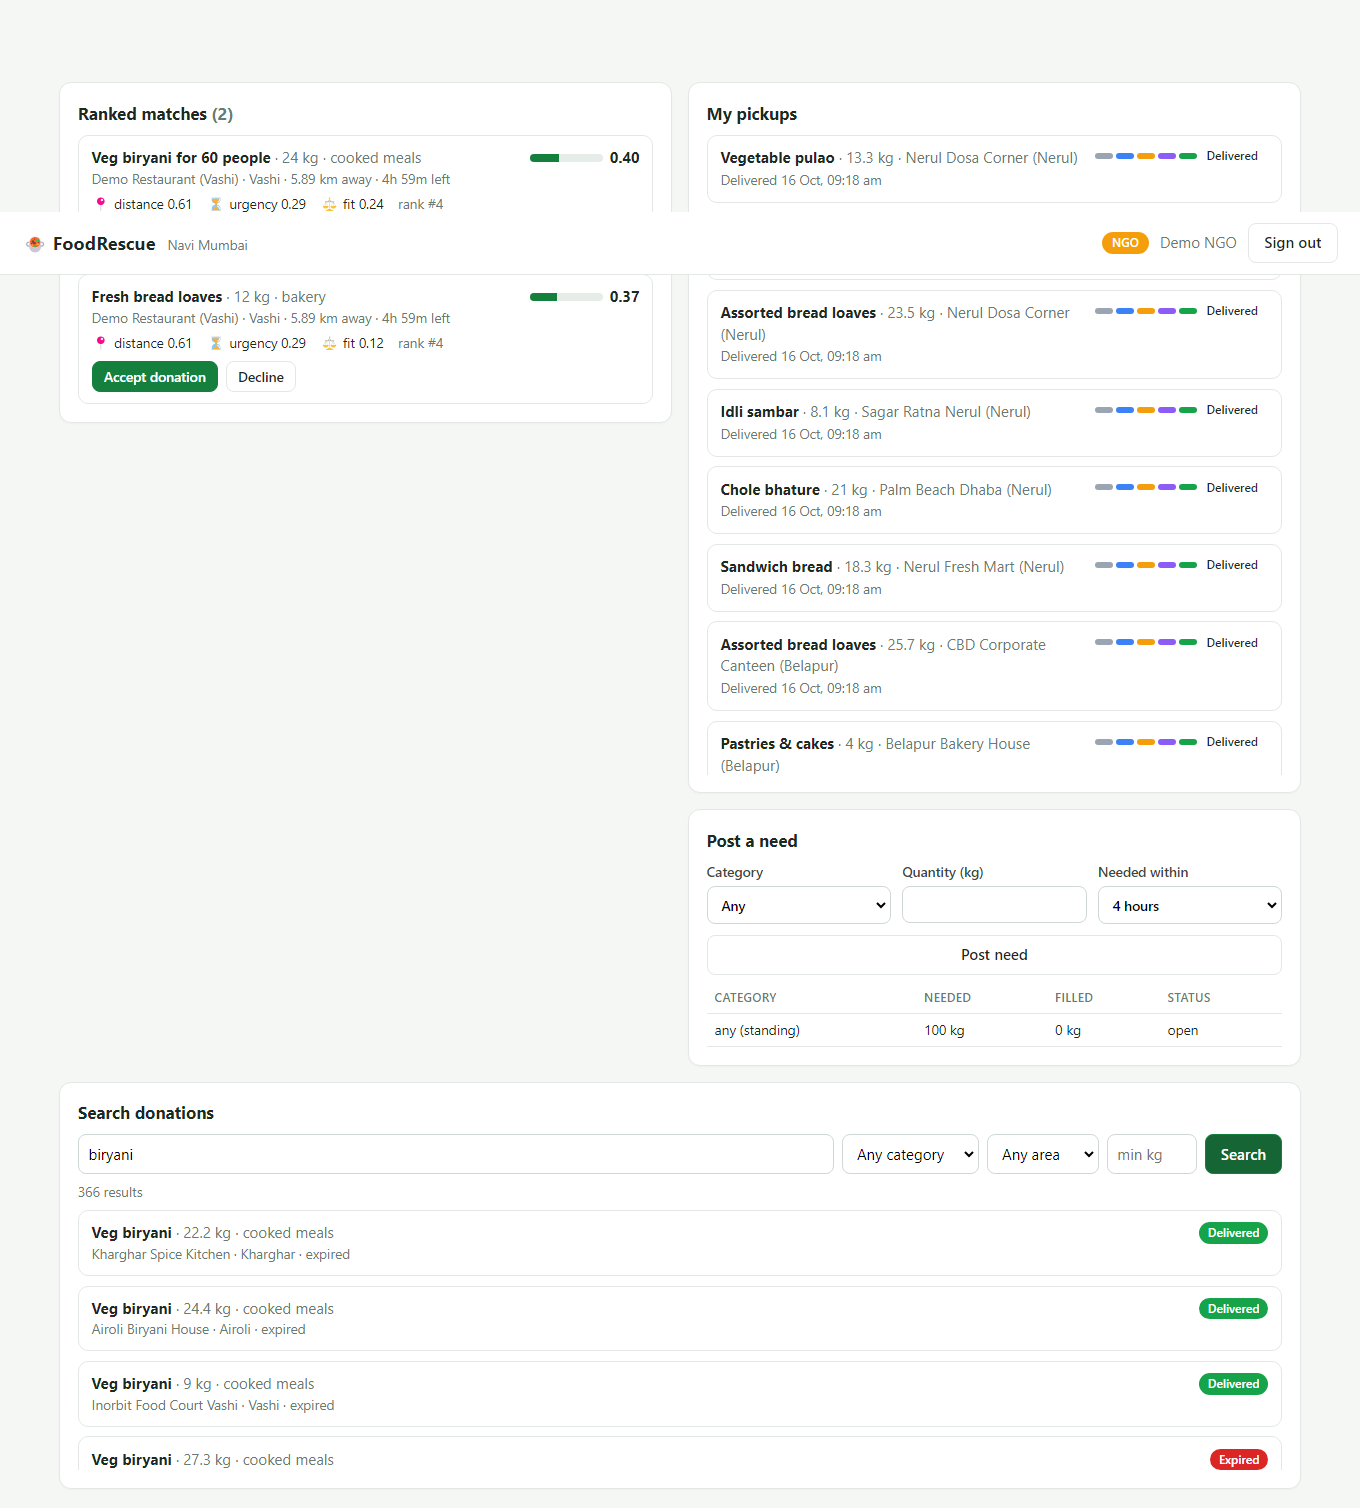
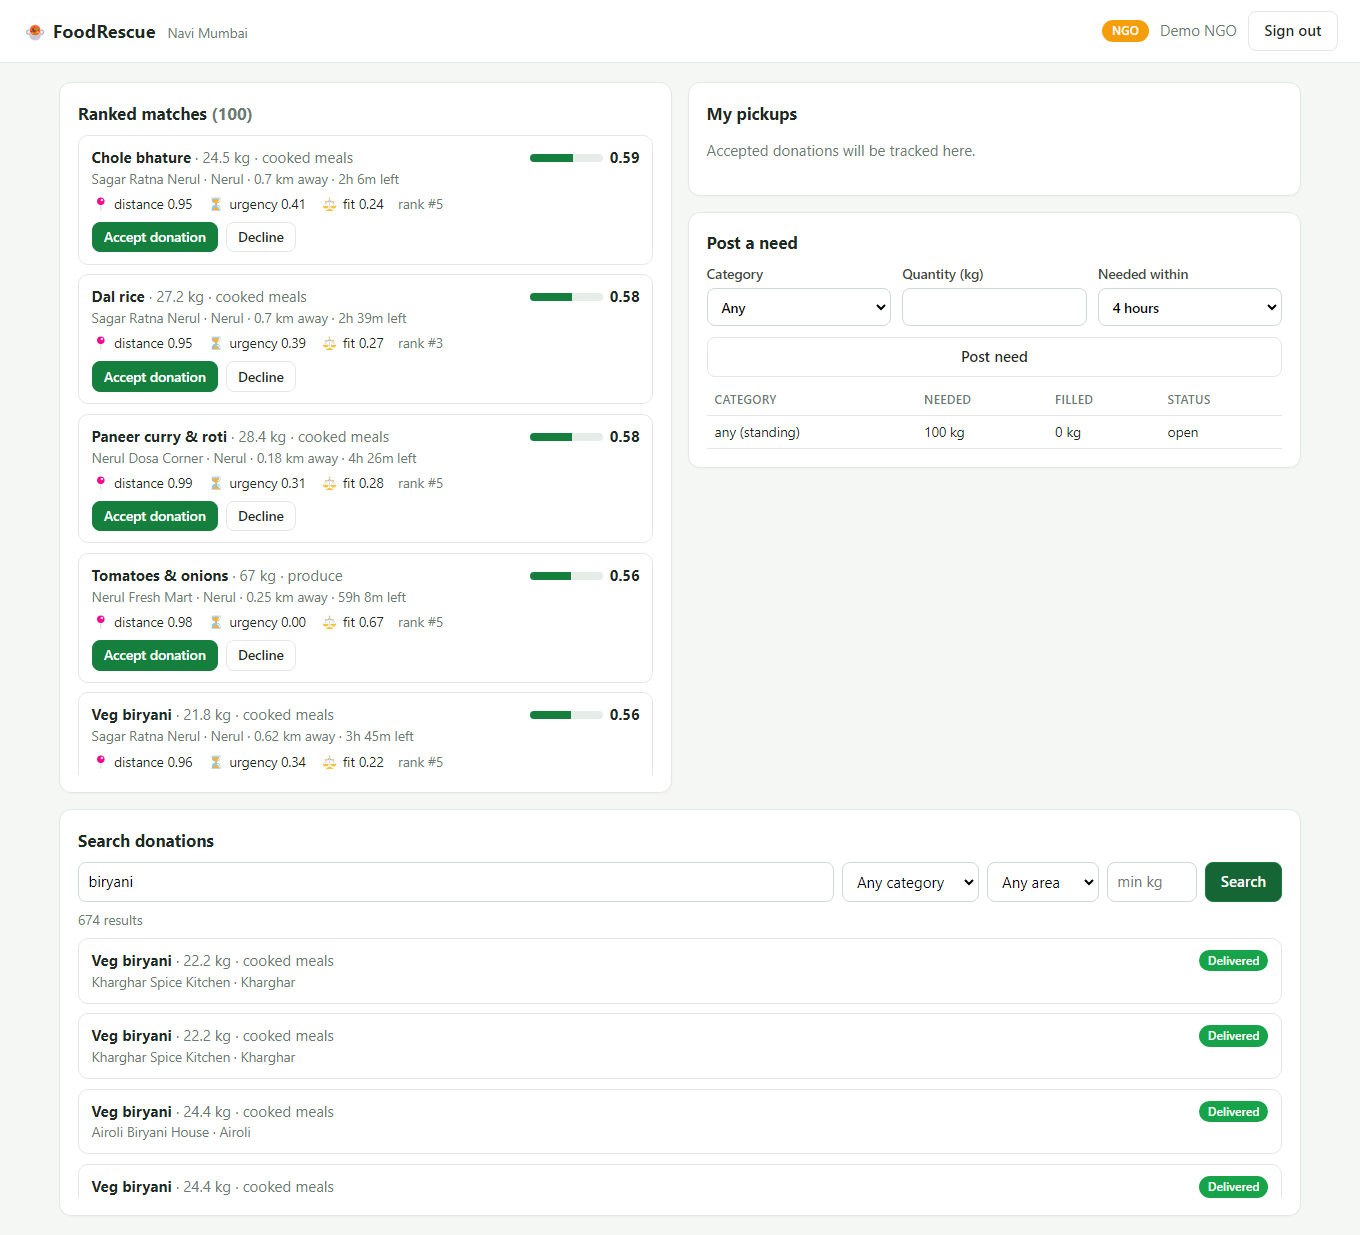
README screenshots gallery, progress details, search result polish

diff --git a/frontend/src/components/SearchBox.jsx b/frontend/src/components/SearchBox.jsx
@@ -45,7 +45,7 @@ export default function SearchBox({ title = 'Search donations' }) {
                 <div className="item-head">
                   <div>
                     <b>{h.food_type}</b> <span className="muted">· {h.quantity_kg} kg · {label(h.category)}</span>
-                    <div className="muted small">{h.donor} · {h.area} · {timeLeft(h.expiry_time)}</div>
+                    <div className="muted small">{h.donor} · {h.area}{['listed', 'matched'].includes(h.status) ? ` · ${timeLeft(h.expiry_time)}` : ''}</div>
                   </div>
                   <Badge status={h.status} />
                 </div>

diff --git a/README.md b/README.md
@@ -8,6 +8,20 @@ Donors list surplus food, the system finds the best nearby NGOs for it, and the 
 
 Screenshots are in [docs/screenshots](docs/screenshots). Deeper docs: [architecture](docs/architecture.md) · [database model](docs/er-diagram.md) · [demo script](docs/DEMO_SCRIPT.md) · [progress](PROGRESS.md).
 
+
+## Screenshots
+
+| | |
+|---|---|
+| ![Login](docs/screenshots/01-login.png) **Login** | ![Donor](docs/screenshots/02-donor.png) **Donor**: listing, status steps, ranked NGOs |
+| ![NGO](docs/screenshots/03-ngo-matches.png) **NGO**: ranked matches, accept / decline | ![Search](docs/screenshots/04-ngo-search.png) **Search** (Elasticsearch) |
+| ![Live demo](docs/screenshots/05-admin-live-demo.png) **Admin live demo** | ![Map](docs/screenshots/06-map-clusters-and-match-lines.png) **Map**: clusters, match lines, NGOs |
+| ![Analytics](docs/screenshots/07-analytics.png) **Analytics** (DuckDB, forecast) | ![Pipeline health](docs/screenshots/08b-pipeline-health-with-nifi.png) **Pipeline health** |
+| ![NiFi](docs/screenshots/13-nifi-flow.png) **Apache NiFi** flow | ![Airflow](docs/screenshots/12-airflow-dags.png) **Apache Airflow** DAGs |
+| ![RabbitMQ](docs/screenshots/10-rabbitmq-queue.png) **RabbitMQ** queue | ![Swagger](docs/screenshots/09-swagger-api-docs.png) **API docs** |
+
+Regenerate them with `node scripts/capture_screenshots.mjs` (needs `npm i -D playwright` and a running stack).
+
 ## What it does
 
 - **Donors** list surplus food (or upload a CSV) and follow its status: listed → matched → accepted → picked up → delivered.

diff --git a/PROGRESS.md b/PROGRESS.md
@@ -27,7 +27,7 @@
 * Backend test suite in Docker; frontend `npm run build` in the Docker image.
 * Core stack end to end: live demo at 5x, 20 batches, Delta history written by backend and worker together, analytics, forecast, health page.
 * Core + Elasticsearch + Airflow: reindex, text / geo / status search, live indexing during the demo, all four DAGs run successfully (Delta compaction removed small files, snapshot and quality report stored).
-* Core + NiFi: flow deployed by `nifi-init`, CSVs picked up from `data/inbox/`, archived, ingested through the API (see the NiFi section below for the exact check).
+* Core + NiFi: `nifi-init` deployed the flow (4 processors RUNNING and VALID); with the simulator in CSV-only mode, 8 CSV files were picked up from `data/inbox/`, archived to `data/archive/` and ingested through the API (8 batches with source `api`, 0 failed files, direct path unused); the NiFi canvas shows 20 files processed in a later run.
 * `docker-compose.prod.yml` is validated with `docker compose config`; its safety rules (weak secret refusal, no demo accounts, demo disabled) are covered by tests. The production stack itself was not run on a server.
 
 ## 🐞 Known limitations
